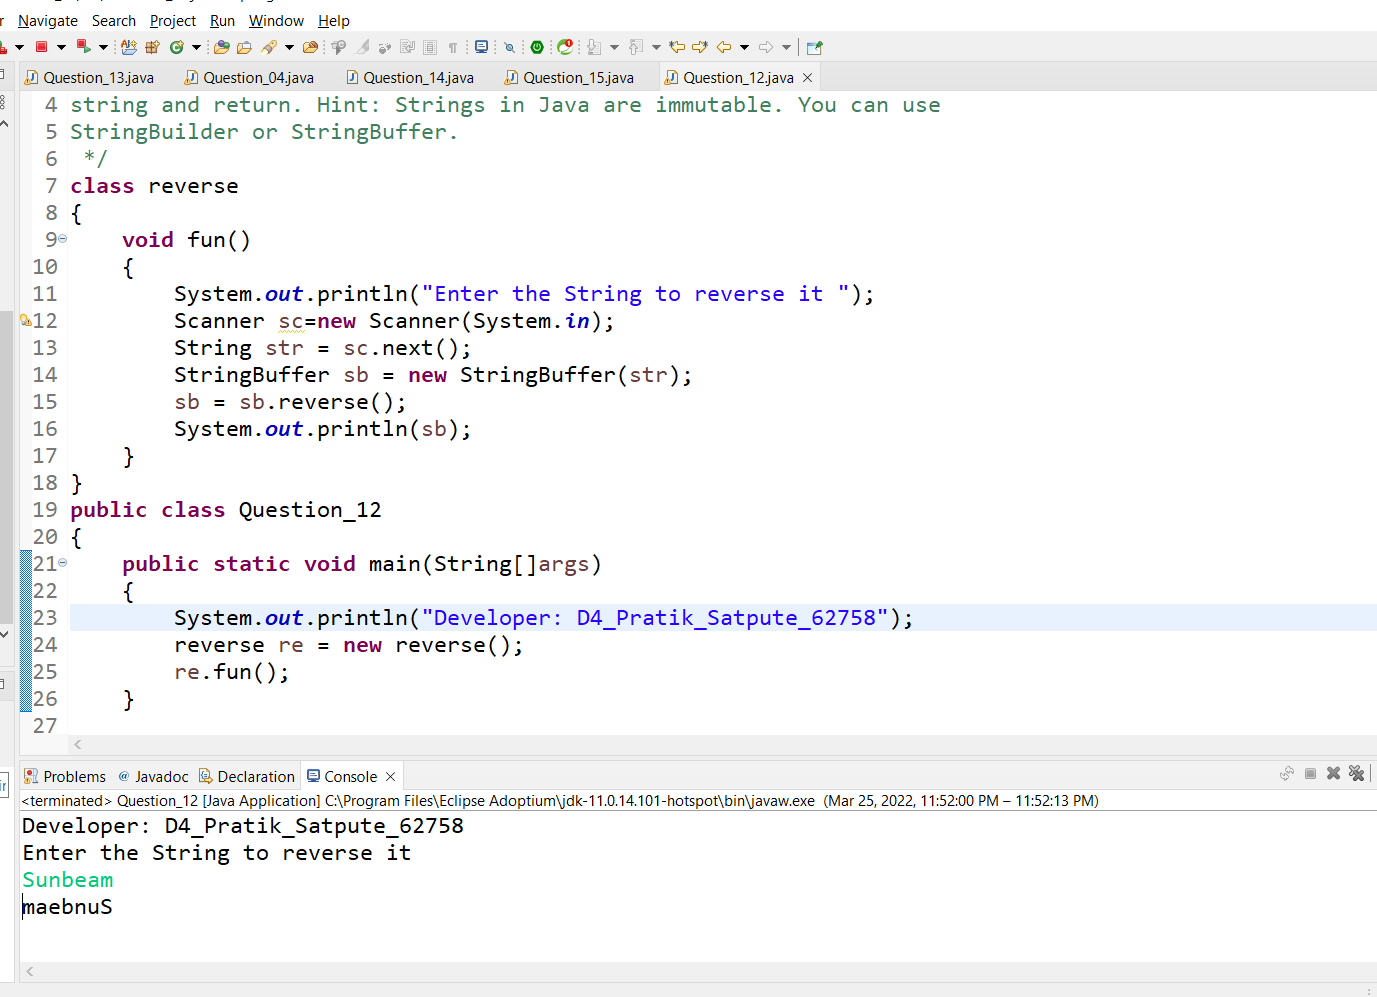
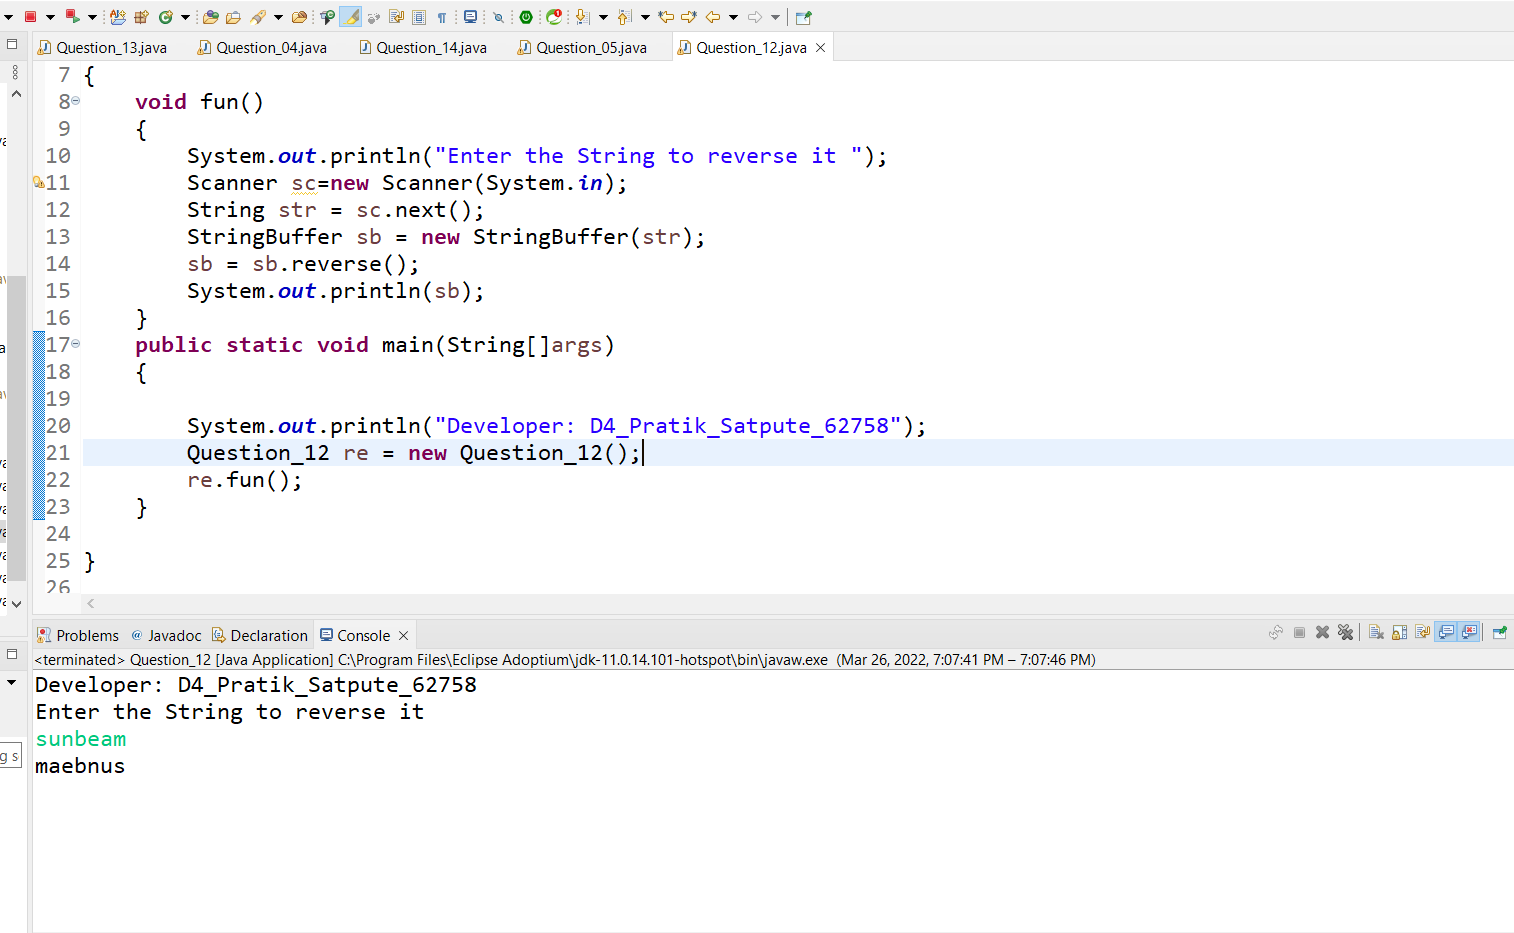
question12

Changed region(s): [[0.0, 0.0, 1.0, 0.9325]]

diff --git a/Question_12.java b/Question_12.java
@@ -1,0 +1,25 @@
+import java.util.Scanner;
+
+/*Write a user-defined function to reverse the letters present in the given 
+string and return. Hint: Strings in Java are immutable. You can use 
+StringBuilder or StringBuffer.*/
+public class Question_12 
+{
+	void fun()
+	{
+		System.out.println("Enter the String to reverse it ");
+		Scanner sc=new Scanner(System.in);
+		String str = sc.next();		
+		StringBuffer sb = new StringBuffer(str);
+		sb = sb.reverse();	
+		System.out.println(sb);
+	}
+	public static void main(String[]args)
+	{	
+		
+		System.out.println("Developer: D4_Pratik_Satpute_62758");
+		Question_12 re = new Question_12();
+		re.fun();
+	}
+	
+}
